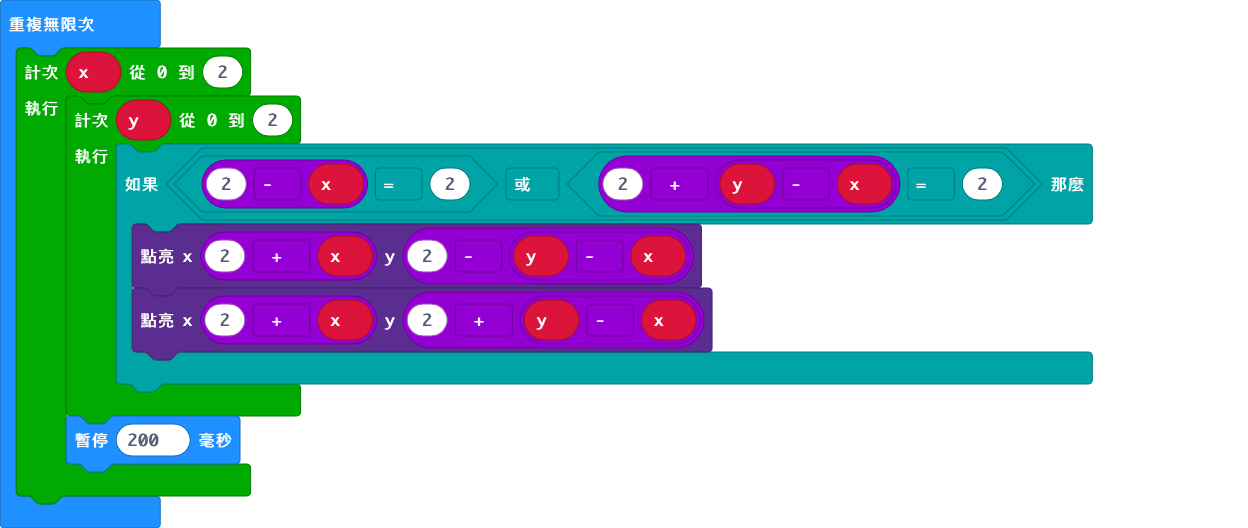
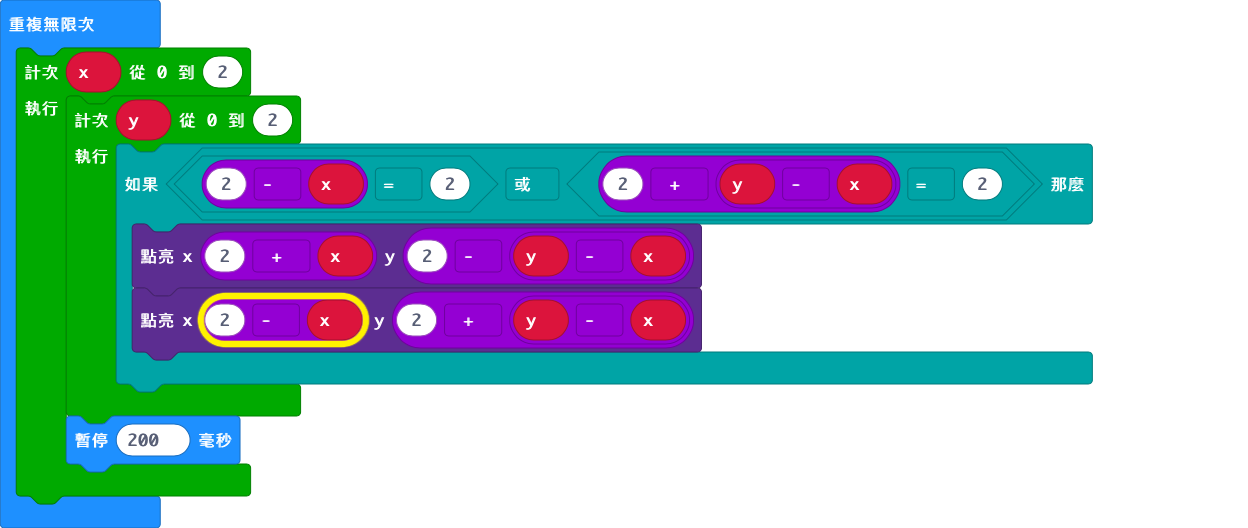
Update main.blocks, main.ts

Changed region(s): [[0.1562, 0.5455, 0.5938, 0.6667]]

diff --git a/main.ts b/main.ts
@@ -3,7 +3,7 @@ basic.forever(function () {
         for (let y = 0; y <= 2; y++) {
             if (2 - x == 2 || 2 + (y - x) == 2) {
                 led.plot(2 + x, 2 - (y - x))
-                led.plot(2 + x, 2 + (y - x))
+                led.plot(2 - x, 2 + (y - x))
             }
         }
         basic.pause(200)
